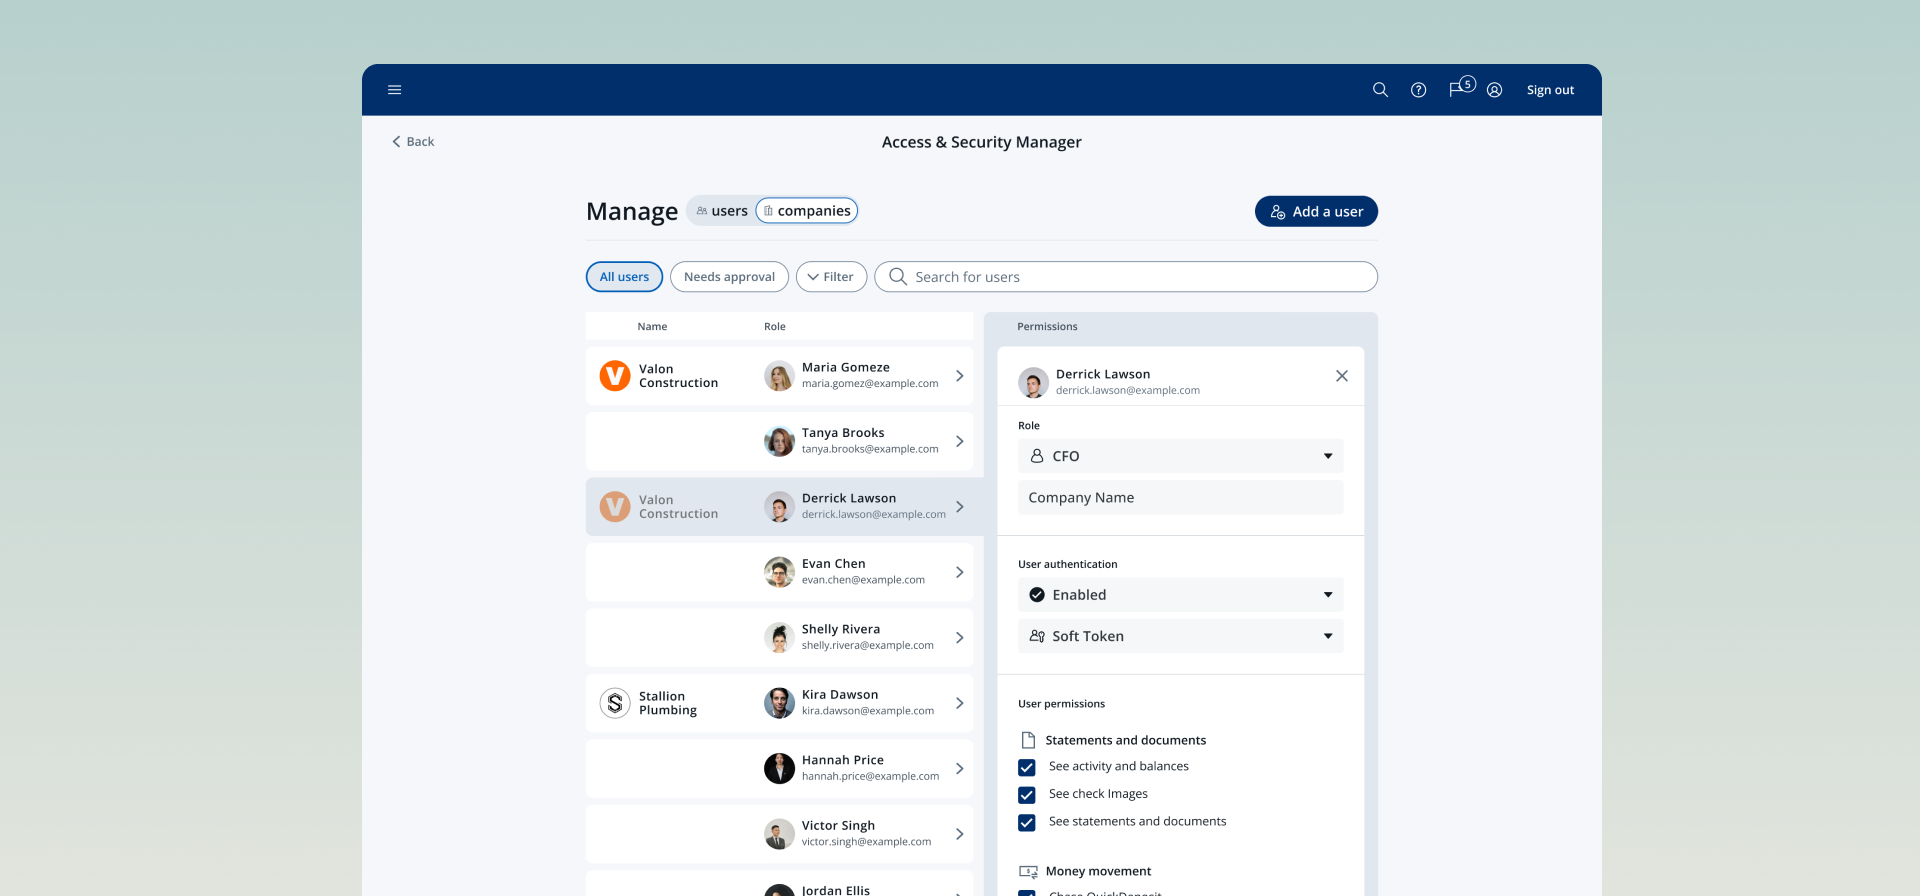
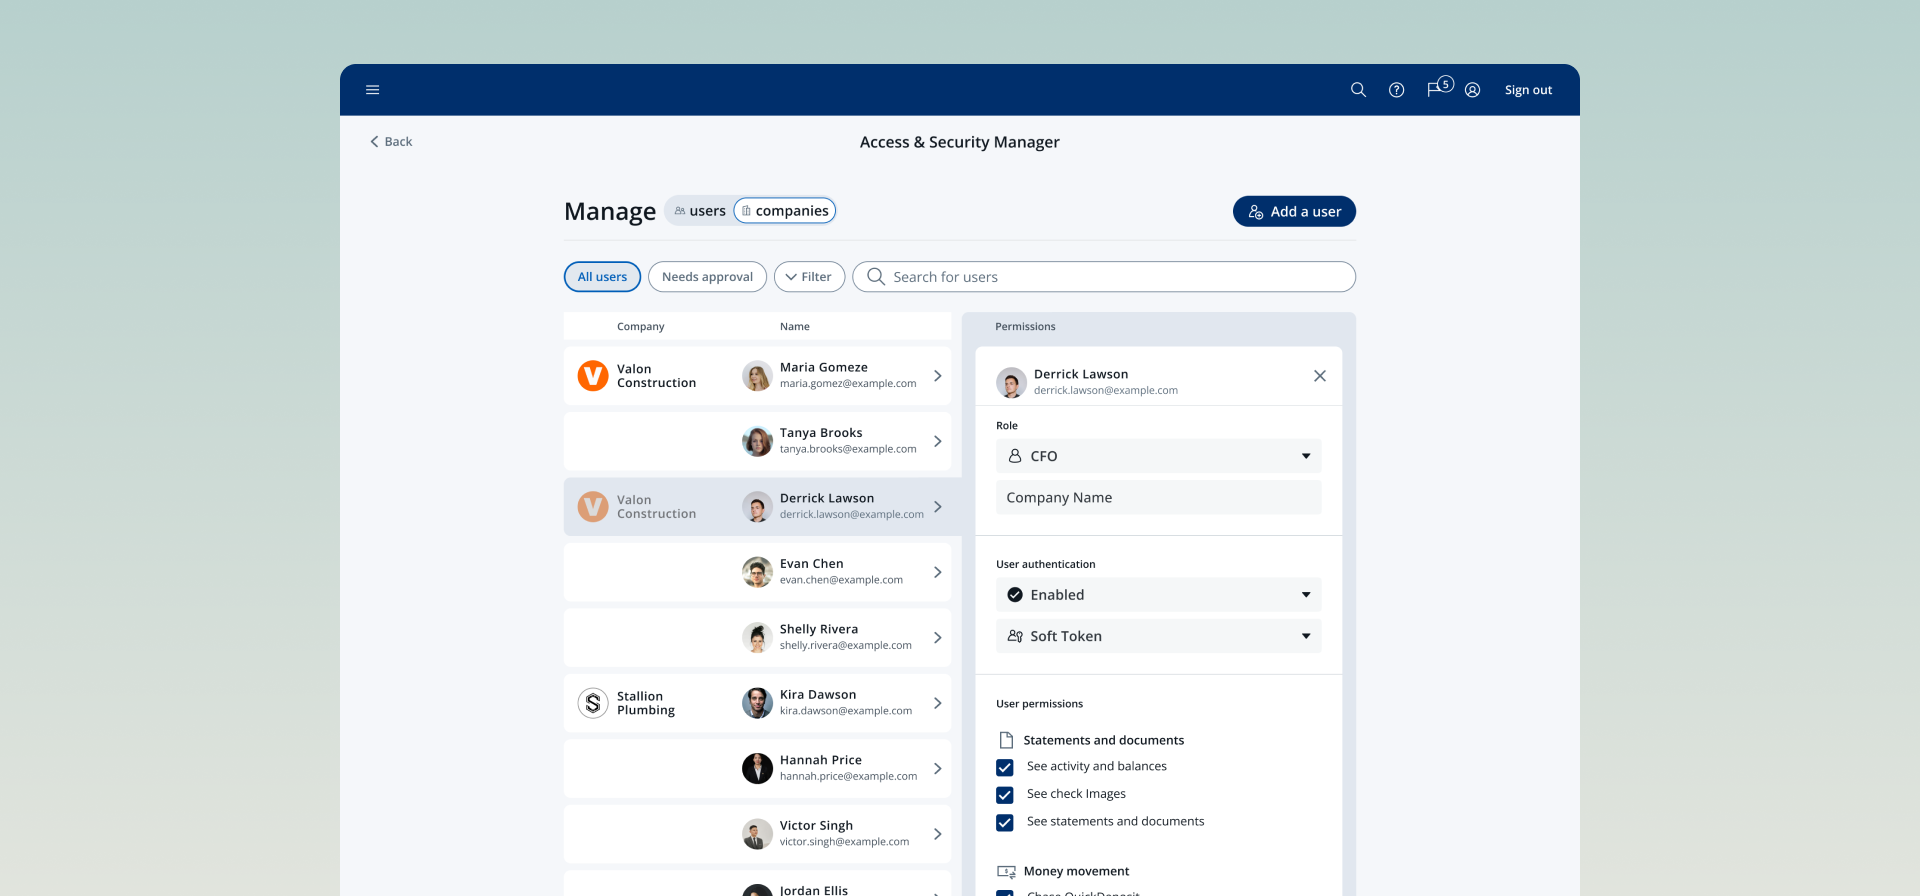
Reupload ASM tiles 6 and 7
Replace 6.png and 7.png and bust cache for the updated assets.

diff --git a/js/main.js b/js/main.js
@@ -27,7 +27,7 @@ async function init() {
     return;
   }
 
-  const response = await fetch("./data/projects.json?v=asm-reupload-1");
+  const response = await fetch("./data/projects.json?v=asm-reupload-2");
   const data = await response.json();
 
   getPublishedSections(data.sections).forEach((section) => {
